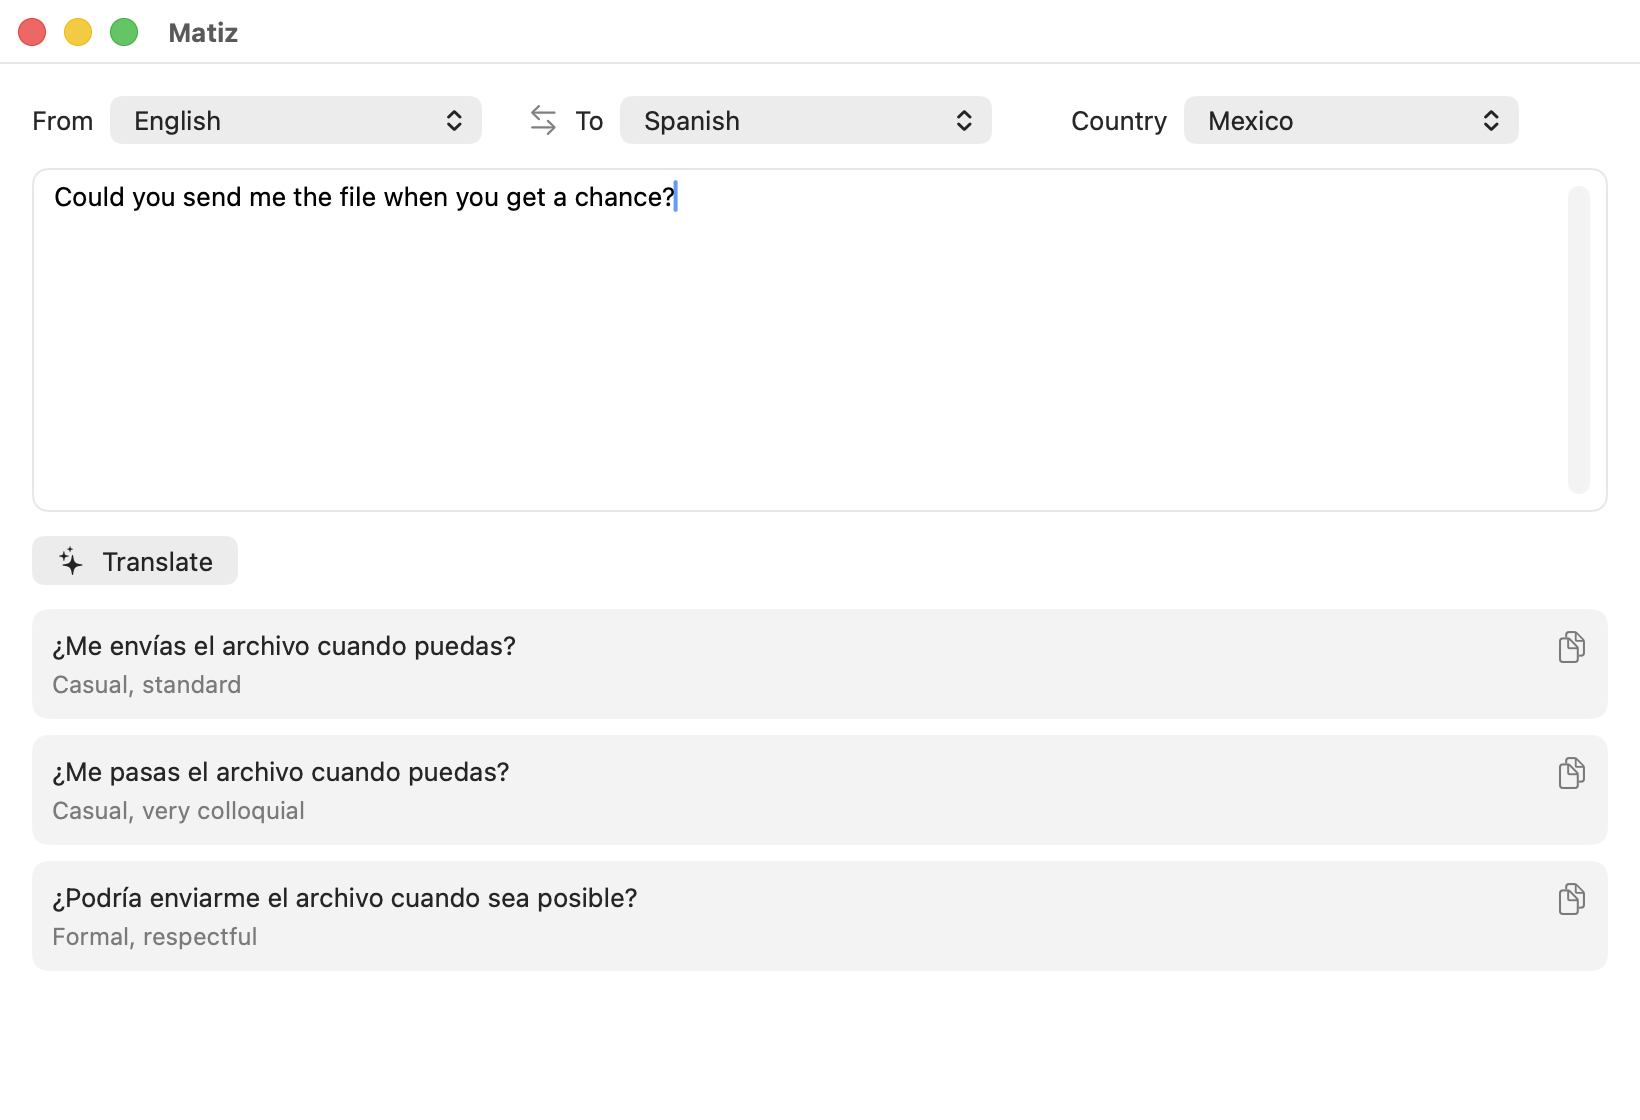
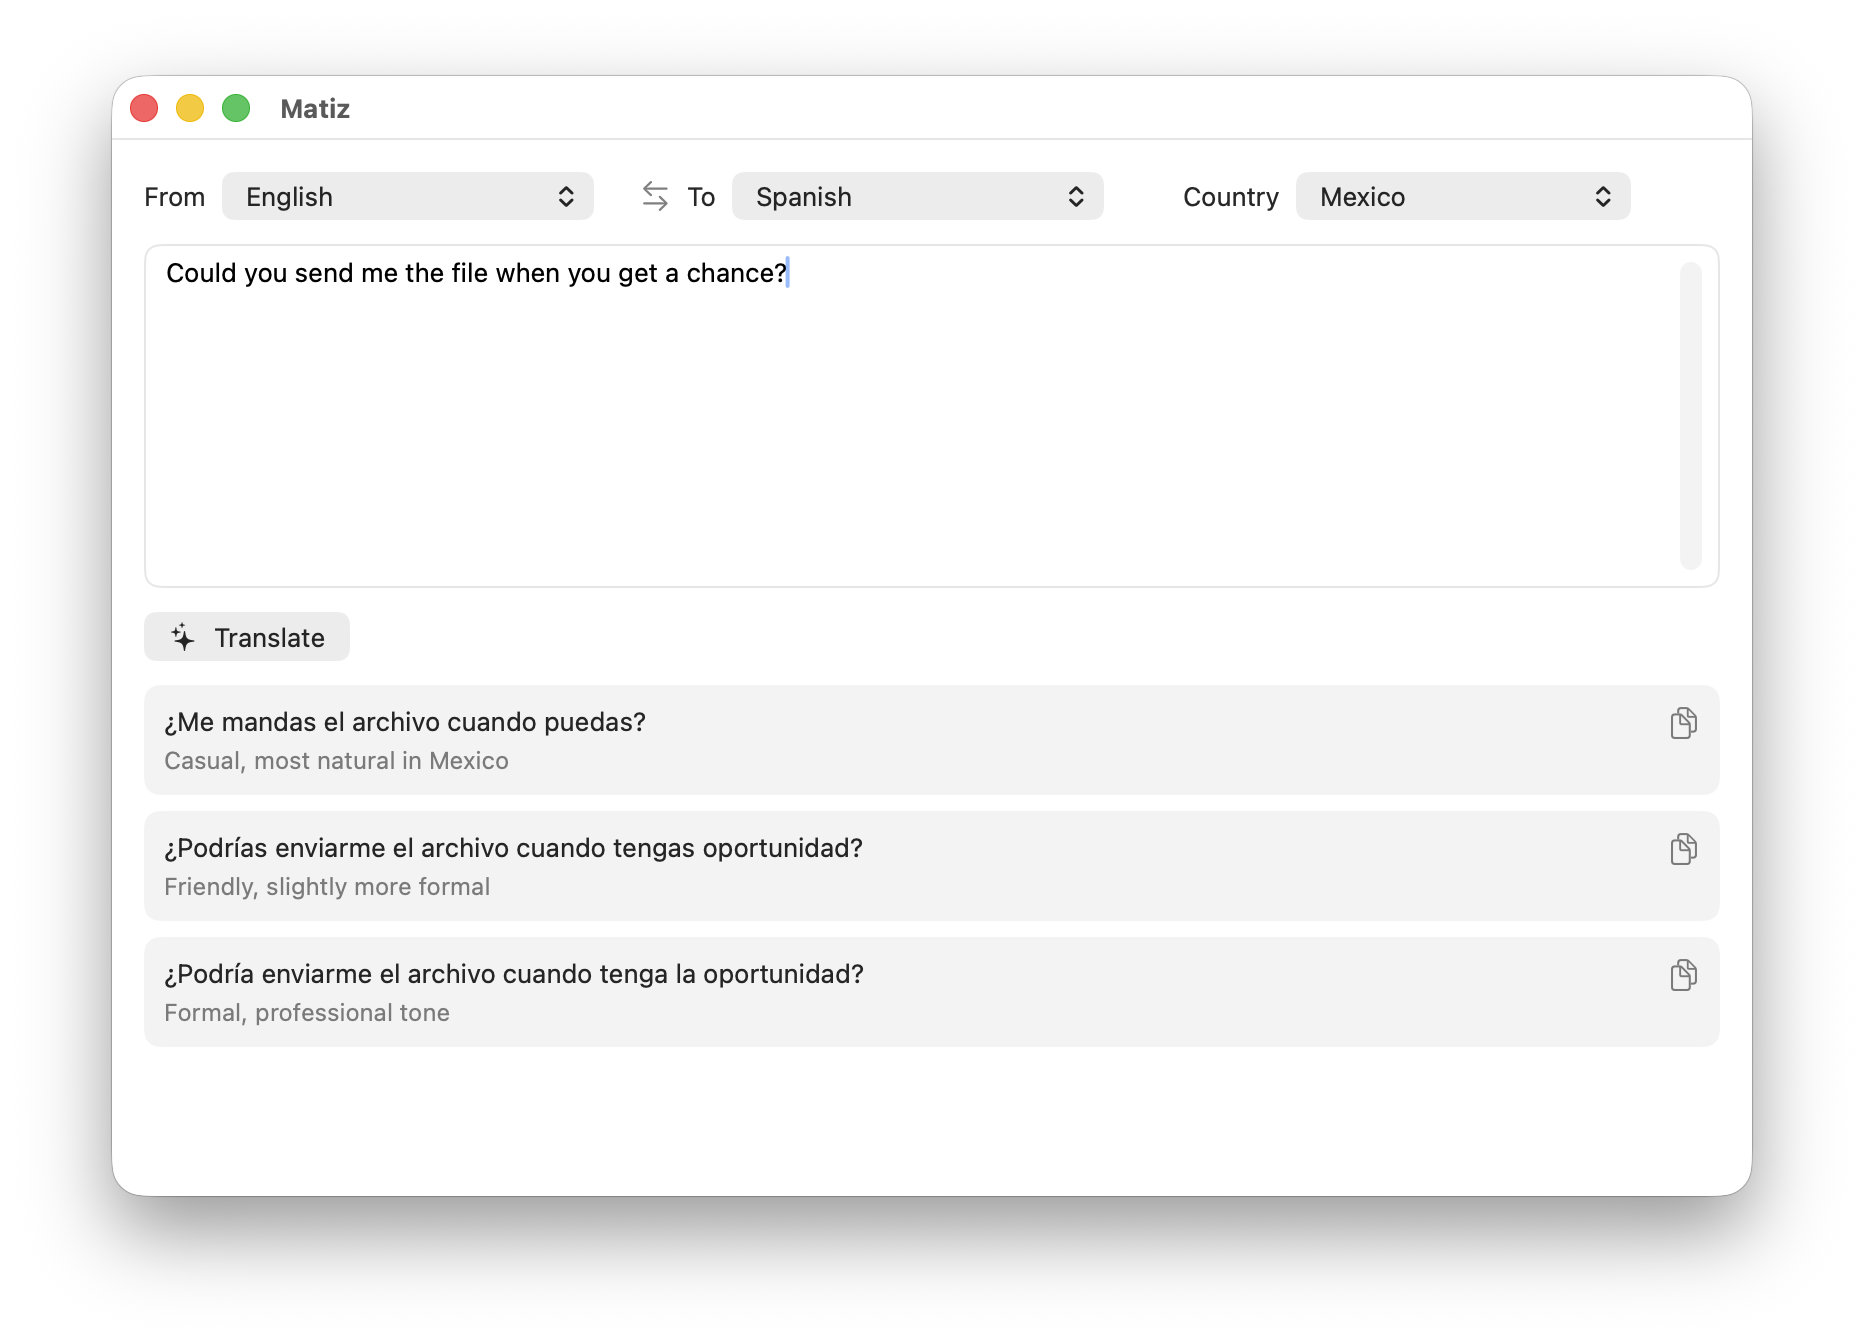
Script the README screenshot capture
Re-shooting the screenshot meant hand-driving the app and hand-picking a
capture, which is slow and easy to get subtly wrong — the committed image had
no window shadow, so it had no visible edge against the README's background.

Add bin/screenshot, which runs the app in screenshot mode: MATIZ_SCREENSHOT
carries the sample sentence, and the app prefills it, sizes the window, and
translates on launch, then brings itself forward and prints a marker once the
variants are rendered. The script waits for that marker before capturing, so
it never catches the spinner, and it captures without -o so the window keeps
its shadow.

Recaptured docs/screenshot.png with it, and sized the image in the README so
it doesn't stretch to the full container width.

diff --git a/Sources/Matiz/ContentView.swift b/Sources/Matiz/ContentView.swift
@@ -48,6 +48,30 @@ struct ContentView: View {
             Spacer(minLength: 0)
         }
         .padding()
+        .task { await runScreenshotMode() }
+    }
+
+    /// Drives the README screenshot for `bin/screenshot`: prefills the sample text the
+    /// script passes in, sizes the window so the capture is the same shape every time,
+    /// and translates on launch. Once the variants are on screen it brings the app
+    /// forward — an inactive window is captured with a grey title bar and a flatter
+    /// shadow — and says so on stdout, which is the script's cue to capture.
+    private func runScreenshotMode() async {
+        guard let sample = ProcessInfo.processInfo.environment["MATIZ_SCREENSHOT"] else { return }
+
+        if let window = NSApp.windows.first {
+            window.setContentSize(NSSize(width: 820, height: 560))
+            window.center()
+        }
+        model.sourceText = sample
+        model.translate(model: claudeModel)
+
+        while model.isTranslating {
+            try? await Task.sleep(for: .milliseconds(200))
+        }
+        NSApp.activate(ignoringOtherApps: true)
+        print("screenshot: ready")
+        fflush(stdout)
     }
 
     private var languageBar: some View {

diff --git a/README.md b/README.md
@@ -5,7 +5,9 @@ language and a country, and it returns 1–3 translation variants, each with a s
 note ("more formal", "casual, spoken", …) so you can pick the right register for the
 right place.
 
-![Matiz translating an English sentence into three Spanish variants](docs/screenshot.png)
+<p align="center">
+  <img src="docs/screenshot.png" width="700" alt="Matiz translating an English sentence into three Spanish variants">
+</p>
 
 Translations are generated by the [Claude Code CLI](https://docs.anthropic.com/en/docs/claude-code)
 (`claude -p`), so that must be installed and logged in. The backend sits behind the
@@ -24,6 +26,8 @@ later without touching the UI.
 - `tools/generate_db.py` — regenerates `CountryLanguageDB.swift`, the embedded
   country/language data (languages from Google Translate's supported list, spoken-in
   mappings from Unicode CLDR).
+- `bin/screenshot` — recaptures `docs/screenshot.png` above. The translation in it is
+  a real one, so re-run it if the variants don't show the register differences well.
 
 ## Run
 
